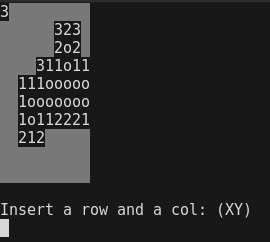
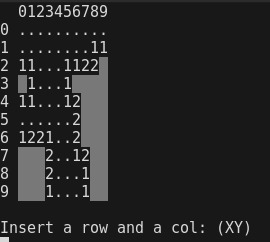
feat: some improvements

diff --git a/pkg/mines.go b/pkg/mines.go
@@ -37,14 +37,14 @@ type MineBoard struct {
 }
 
 var cellNeighbors = [][]int{
-  {-1, -1}, // top left
-  {-1, 0}, // top center
-  {-1, 1}, // top right
-  {0, 1}, // right center
-  {1, 1}, // bottom right
-  {1, 0}, // bottom center
-  {1, -1}, //bottom left
-  {0, -1}, // left center
+	{-1, -1}, // top left
+	{-1, 0},  // top center
+	{-1, 1},  // top right
+	{0, 1},   // right center
+	{1, 1},   // bottom right
+	{1, 0},   // bottom center
+	{1, -1},  //bottom left
+	{0, -1},  // left center
 }
 
 func (b *MineBoard) CreateEmptyBoard() {
@@ -78,7 +78,10 @@ func (b *MineBoard) CreateBombs() {
 func (b *MineBoard) Debug(showAll bool) {
 	output := ""
 	count := 0
-	for _, row := range b.Cells {
+
+	for idxRow, row := range b.Cells {
+		output += fmt.Sprintf("%d ", idxRow)
+
 		for _, col := range row {
 			var content = col.Content
 
@@ -88,7 +91,7 @@ func (b *MineBoard) Debug(showAll bool) {
 			}
 
 			if content == 0 {
-				output += "o"
+				output += "."
 			} else if content > 0 {
 				output += fmt.Sprint(content)
 			} else {
@@ -100,6 +103,11 @@ func (b *MineBoard) Debug(showAll bool) {
 		output += "\n"
 	}
 
+	fmt.Print("  ")
+	for i := 0; i < b.Cols; i++ {
+		fmt.Printf("%d", i)
+	}
+	fmt.Println()
 	fmt.Println(output)
 }
 
@@ -110,16 +118,16 @@ func (b *MineBoard) FillSmartCells() {
 				continue
 			}
 
-      content := 0
-      for _, idx := range cellNeighbors {
-        currentRow := idxRow + idx[0]
-        currentCol := idxCol + idx[1]
-        if currentRow >= 0 && currentRow < b.Rows && currentCol >= 0 && currentCol < b.Cols {
-          if b.Cells[currentRow][currentCol].Content == -1 {
-            content += 1
-          }
-        }
-      }
+			content := 0
+			for _, idx := range cellNeighbors {
+				currentRow := idxRow + idx[0]
+				currentCol := idxCol + idx[1]
+				if currentRow >= 0 && currentRow < b.Rows && currentCol >= 0 && currentCol < b.Cols {
+					if b.Cells[currentRow][currentCol].Content == -1 {
+						content += 1
+					}
+				}
+			}
 
 			b.Cells[idxRow][idxCol].Content = content
 		}
@@ -127,43 +135,43 @@ func (b *MineBoard) FillSmartCells() {
 }
 
 func (b *MineBoard) OpenBlankCells(row, col int) {
-  for _, idx := range cellNeighbors {
-    currentRow := row + idx[0]
-    currentCol := col + idx[1]
-    if currentRow >= 0 && currentRow < b.Rows && currentCol >= 0 && currentCol < b.Cols {
-      b.Cells[row][col].State = Opened
+	for _, idx := range cellNeighbors {
+		currentRow := row + idx[0]
+		currentCol := col + idx[1]
+		if currentRow >= 0 && currentRow < b.Rows && currentCol >= 0 && currentCol < b.Cols {
+			b.Cells[row][col].State = Opened
 
-      content := b.Cells[currentRow][currentCol].Content 
+			content := b.Cells[currentRow][currentCol].Content
 
-      if content > 0 {
-        b.Cells[currentRow][currentCol].State = Opened
-      } else if content == 0 && b.Cells[currentRow][currentCol].State == Closed {
-        b.OpenBlankCells(currentRow, currentCol)
-      }
-    }
+			if content > 0 {
+				b.Cells[currentRow][currentCol].State = Opened
+			} else if content == 0 && b.Cells[currentRow][currentCol].State == Closed {
+				b.OpenBlankCells(currentRow, currentCol)
+			}
+		}
 	}
 }
 
 func (p *MineBoard) CheckForWin() {
-  countClosed := 0
+	countClosed := 0
 
 	for _, row := range p.Cells {
 		for _, col := range row {
-      if col.State == Closed {
-        countClosed += 1
-      }
-    }
-  }
+			if col.State == Closed {
+				countClosed += 1
+			}
+		}
+	}
 
-  if countClosed == p.Bombs {
-    p.Status = Victory
+	if countClosed == p.Bombs {
+		p.Status = Victory
 
-    for idxRow, row := range p.Cells {
-      for idxCol := range row {
-        p.Cells[idxRow][idxCol].State = Opened
-      }
-    }
-  }
+		for idxRow, row := range p.Cells {
+			for idxCol := range row {
+				p.Cells[idxRow][idxCol].State = Opened
+			}
+		}
+	}
 }
 
 func (p *MineBoard) PickCell(row, col int) error {

diff --git a/pkg/mines_test.go b/pkg/mines_test.go
@@ -7,76 +7,76 @@ var cols = 5
 var totalBombs = 5
 
 func TestCreateEmptyBoard(t *testing.T) {
-  board := MineBoard{Rows: rows, Cols: cols, Bombs: totalBombs}
-  board.CreateEmptyBoard()
+	board := MineBoard{Rows: rows, Cols: cols, Bombs: totalBombs}
+	board.CreateEmptyBoard()
 
-  var cells = board.Cells
+	var cells = board.Cells
 
-  if len(cells) != rows || len(cells[0]) != cols {
-    t.Errorf("rows should have length %d, but got %d", rows, len(cells))
-  }
+	if len(cells) != rows || len(cells[0]) != cols {
+		t.Errorf("rows should have length %d, but got %d", rows, len(cells))
+	}
 
-  if len(cells[0]) != cols {
-    t.Errorf("cols should have length %d, but got %d", cols, len(cells[0]))
-  }
+	if len(cells[0]) != cols {
+		t.Errorf("cols should have length %d, but got %d", cols, len(cells[0]))
+	}
 
-  var row = cells[rows - 1]
-  var col = row[cols - 1]
+	var row = cells[rows-1]
+	var col = row[cols-1]
 
-  if col.Row != rows - 1 || col.Col != cols -1 || col.State != 0 || col.Content != 0 {
-    t.Errorf("last cell does not have correct values for row and col %+v", cells)
-  }
+	if col.Row != rows-1 || col.Col != cols-1 || col.State != 0 || col.Content != 0 {
+		t.Errorf("last cell does not have correct values for row and col %+v", cells)
+	}
 }
 
 func TestCreateBombs(t *testing.T) {
-  board := MineBoard{Rows: rows, Cols: cols, Bombs: totalBombs}
-  board.CreateEmptyBoard()
-  board.CreateBombs()
-  countBombs := 0
+	board := MineBoard{Rows: rows, Cols: cols, Bombs: totalBombs}
+	board.CreateEmptyBoard()
+	board.CreateBombs()
+	countBombs := 0
 
-  for _, row := range board.Cells {
-    for _, col := range row {
-      if col.Content == -1 {
-        countBombs += 1
-      }
-    }
-  }
+	for _, row := range board.Cells {
+		for _, col := range row {
+			if col.Content == -1 {
+				countBombs += 1
+			}
+		}
+	}
 
-  if countBombs != board.Bombs {
-    t.Errorf("number of bombs should be %d, received %d", board.Bombs, countBombs)
-  }
+	if countBombs != board.Bombs {
+		t.Errorf("number of bombs should be %d, received %d", board.Bombs, countBombs)
+	}
 }
 
 func TestPickCell(t *testing.T) {
-  board := MineBoard{Rows: rows, Cols: cols, Bombs: 50, Status: Running}
-  board.CreateEmptyBoard()
-  board.CreateBombs()
-  board.FillSmartCells()
-  board.PickCell(4, 4)
+	board := MineBoard{Rows: rows, Cols: cols, Bombs: 50, Status: Running}
+	board.CreateEmptyBoard()
+	board.CreateBombs()
+	board.FillSmartCells()
+	board.PickCell(4, 4)
 
-  if board.Status != GameOver {
-    t.Errorf("picked a bomb and game is not over")
-  }
+	if board.Status != GameOver {
+		t.Errorf("picked a bomb and game is not over")
+	}
 
-  board = MineBoard{Rows: rows, Cols: cols, Bombs: 0, Status: Running}
-  board.CreateEmptyBoard()
-  board.FillSmartCells()
-  board.PickCell(4, 4)
+	board = MineBoard{Rows: rows, Cols: cols, Bombs: 0, Status: Running}
+	board.CreateEmptyBoard()
+	board.FillSmartCells()
+	board.PickCell(4, 4)
 
-  if board.Cells[4][4].State != Opened {
-    t.Errorf("the cell should be opened, but is closed")
-  }
+	if board.Cells[4][4].State != Opened {
+		t.Errorf("the cell should be opened, but is closed")
+	}
 }
 
 func TestOpenBlankCells(t *testing.T) {
-  board := MineBoard{Rows: rows, Cols: cols, Bombs: 0, Status: Running}
-  board.CreateEmptyBoard()
-  board.CreateBombs()
-  board.FillSmartCells()
-  board.PickCell(4, 4)
-  board.CheckForWin()
+	board := MineBoard{Rows: rows, Cols: cols, Bombs: 0, Status: Running}
+	board.CreateEmptyBoard()
+	board.CreateBombs()
+	board.FillSmartCells()
+	board.PickCell(4, 4)
+	board.CheckForWin()
 
-  if board.Status != Victory {
-    t.Errorf("the game should return a victory status, but returned %d", board.Status)
-  }
+	if board.Status != Victory {
+		t.Errorf("the game should return a victory status, but returned %d", board.Status)
+	}
 }

diff --git a/cmd/main.go b/cmd/main.go
@@ -13,53 +13,53 @@ import (
 )
 
 func TerminalPlay() {
-  board := mines.NewMineBoard(10, 10, 22)
-  timer := time.NewTicker(100 * time.Millisecond)
+	board := mines.NewMineBoard(10, 10, 10)
+	timer := time.NewTicker(100 * time.Millisecond)
 
-  for {
-    <- timer.C
-    fmt.Print("\033[H\033[2J")
-    board.Debug(false)
-    fmt.Println("Insert a row and a col: (XY)")
-    reader := bufio.NewReader(os.Stdin)
-    line, err := reader.ReadString('\n')
-    if err != nil {
-        log.Fatal(err)
-    }
+	for {
+		<-timer.C
+		fmt.Print("\033[H\033[2J")
+		board.Debug(false)
+		fmt.Println("Insert a row and a col: (XY)")
+		reader := bufio.NewReader(os.Stdin)
+		line, err := reader.ReadString('\n')
+		if err != nil {
+			log.Fatal(err)
+		}
 
-    cmd := strings.Split(line, "")
-    row, err := strconv.ParseFloat(cmd[0], 64)
+		cmd := strings.Split(line, "")
+		row, err := strconv.ParseFloat(cmd[0], 64)
 
-    if err != nil {
-        log.Fatal(err)
-    }
+		if err != nil {
+			log.Fatal(err)
+		}
 
-    col, err := strconv.ParseFloat(cmd[1], 64)
+		col, err := strconv.ParseFloat(cmd[1], 64)
 
-    if err != nil {
-        log.Fatal(err)
-    }
+		if err != nil {
+			log.Fatal(err)
+		}
 
-    err = board.PickCell(int(row), int(col))
+		err = board.PickCell(int(row), int(col))
 
-    if err != nil {
-        log.Fatal(err)
-    }
+		if err != nil {
+			log.Fatal(err)
+		}
 
-    board.Debug(false)
+		board.Debug(false)
 
-    if board.Status == mines.GameOver {
-      log.Fatal("GAME OVER")
-    }
+		if board.Status == mines.GameOver {
+			log.Fatal("GAME OVER")
+		}
 
-    board.CheckForWin()
+		board.CheckForWin()
 
-    if board.Status == mines.Victory {
-      log.Fatal("YOU WON")
-    }
-  }
+		if board.Status == mines.Victory {
+			log.Fatal("YOU WON")
+		}
+	}
 }
 
 func main() {
-  TerminalPlay()
+	TerminalPlay()
 }
